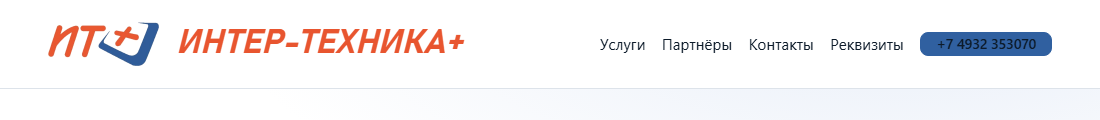
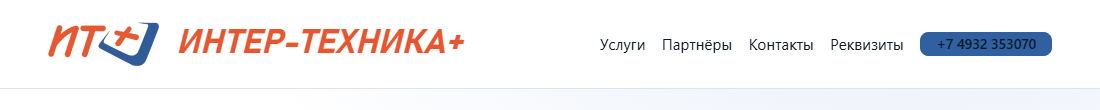
Надпись в шапке: минимум 1,4rem вместо 1rem

diff --git a/assets/style.css b/assets/style.css
@@ -165,7 +165,7 @@ p:last-child { margin-bottom: 0; }
 
 .brand-name {
   font-family: var(--font-display);
-  font-size: clamp(1rem, 3.05vw, 2.75rem);
+  font-size: clamp(1.4rem, 3.05vw, 2.75rem);
   font-weight: 700;
   font-style: italic;
   text-transform: uppercase;
